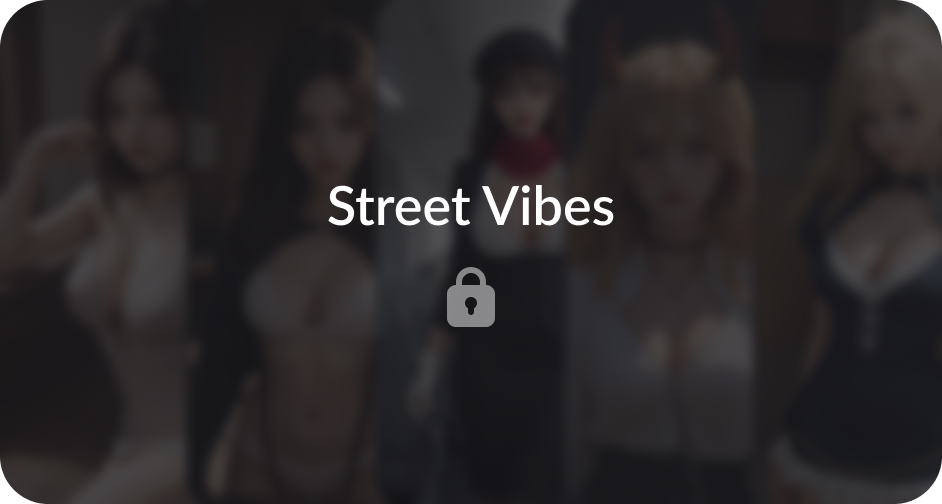
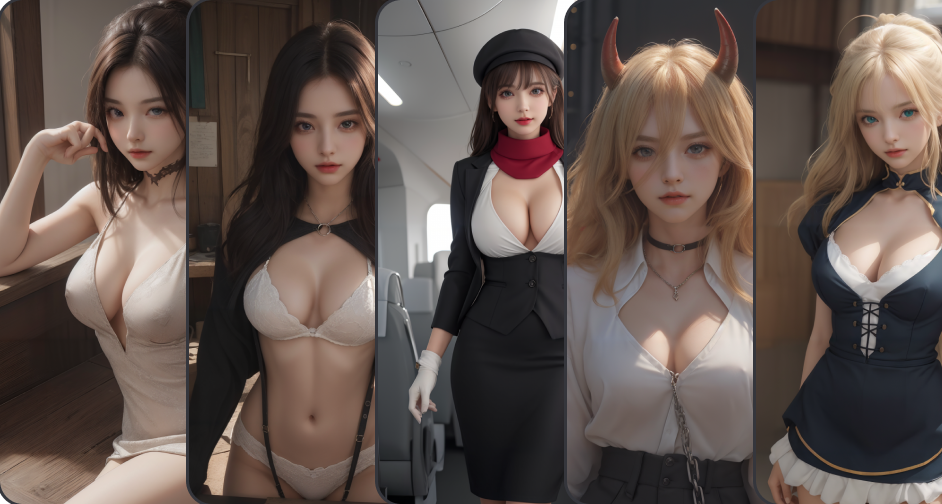
feat: update

diff --git a/lib/pages/theme.dart b/lib/pages/theme.dart
@@ -1,5 +1,8 @@
+import 'dart:ui';
+
 import 'package:flutter/material.dart';
 import '/widgets/common.dart';
+import '/controller/user.dart';
 
 class ThemePage extends StatefulWidget {
   const ThemePage({super.key});
@@ -8,15 +11,143 @@ class ThemePage extends StatefulWidget {
 }
 
 class _ThemePageState extends State<ThemePage> with SingleTickerProviderStateMixin {
+  final ScrollController _scrollController = ScrollController();
+
   @override
   void initState() {
     super.initState();
+    // 初始化后滚动到底部
+    WidgetsBinding.instance.addPostFrameCallback((_) {
+      if (_scrollController.hasClients) {
+        _scrollController.jumpTo(_scrollController.position.maxScrollExtent);
+      }
+    });
+  }
+
+  @override
+  void dispose() {
+    _scrollController.dispose();
+    super.dispose();
   }
 
 	@override
 	Widget build(BuildContext context) {
     return CommonPage(
-      child: Container()
+      child: CustomScrollView(
+        controller: _scrollController,
+        slivers: [
+          SliverToBoxAdapter(
+            child: Container(
+              padding: EdgeInsets.only(bottom: 72),
+              child: Row(
+                crossAxisAlignment: CrossAxisAlignment.end,
+                children: [
+                  Container(
+                    width: 24,
+                    height: 1104,
+                    padding: EdgeInsets.only(bottom: 16),
+                    child: Stack(
+                      alignment: Alignment.bottomCenter,
+                      children: [
+                        Container(
+                          width: 8,
+                          height: 1104,
+                          color: Color(0xFF232429),
+                        ),
+                        Positioned(
+                          bottom: UserController.level.value * 18,
+                          child: Container(
+                            width: 12,
+                            height: 12,
+                            padding: EdgeInsets.all(2),
+                            decoration: BoxDecoration(
+                              color: Colors.white,
+                              borderRadius: BorderRadius.circular(12)
+                            ),
+                            child: Container(
+                              decoration: BoxDecoration(
+                                color: Color(0xFFFF006C),
+                                borderRadius: BorderRadius.circular(12)
+                              ),
+                            ),
+                          )
+                        ),
+                        __levelDot(level: 0),
+                        __levelDot(level: 20),
+                        __levelDot(level: 40),
+                        __levelDot(level: 60),
+                        __levelDot(level: 80),
+                        __levelDot(level: 100),
+                      ],
+                    ),
+                  ),
+                  SizedBox(width: 20),
+                  Expanded(child: Column(
+                    children: [
+                      __themeBox('Ethereal Dreams', 'ED', 100),
+                      __themeBox('Battle Angels', 'BA', 80),
+                      __themeBox('Street Vibes', 'SV', 60),
+                      __themeBox('Royal Queens', 'RQ', 40),
+                      __themeBox('Cyber Divas', 'CD', 20),
+                      __themeBox('Mystic Muses', 'MM', 0),
+                    ],
+                  )),
+                  SizedBox(width: 10)
+                ]
+              ),
+            )
+          )
+        ]
+      )
     );
 	}
+
+  Widget __levelDot({required final int level, final reached}) {
+    return Positioned(
+      bottom: level / 20 * 188,
+      child: Container(
+        width: 24,
+        height: 24,
+        alignment: Alignment.center,
+        decoration: BoxDecoration(
+          color: Color(0xFFFF006C),
+          borderRadius: BorderRadius.circular(24),
+        ),
+        child: Text('lv.$level', style: TextStyle(color: Colors.white, fontSize: 10, fontWeight: FontWeight.w600, overflow: TextOverflow.visible), softWrap: false),
+      )
+    );
+  }
+  Widget __themeBox(title, image, int limit) {
+    bool locked = UserController.level.value < limit;
+    return Container(
+      height: 168,
+      margin: EdgeInsets.only(bottom: 16),
+      clipBehavior: Clip.antiAlias,
+      decoration: BoxDecoration(
+        color: Colors.white,
+        borderRadius: BorderRadius.circular(16),
+        image: DecorationImage(image: AssetImage('assets/images/themes/$image${locked ? '_locked' : ''}.png'), fit: BoxFit.cover)
+      ),
+      child: locked ? Container() : Column(
+        mainAxisAlignment: MainAxisAlignment.end,
+        children: [
+          ClipRRect(
+            child: BackdropFilter(
+              filter: ImageFilter.blur(
+                sigmaX: 2, // 横向模糊强度
+                sigmaY: 2, // 纵向模糊强度
+              ),
+              child: Container(
+                width: MediaQuery.of(context).size.width,
+                height: 38,
+                alignment: Alignment.center,
+                color: Color.fromRGBO(22, 22, 26, 0.72),
+                child: Text('$title', style: TextStyle(color: Colors.white, fontSize: 18, fontWeight: FontWeight.w600)),
+              ),
+            ),
+          )
+        ],
+      )
+    );
+  }
 }

diff --git a/lib/widgets/common.dart b/lib/widgets/common.dart
@@ -29,14 +29,14 @@ class CommonPageState extends State<CommonPage> {
             __shadowRight(),
 
             Container(
-              padding: EdgeInsets.fromLTRB(16, 32, 16, 32),
+              padding: EdgeInsets.fromLTRB(16, 32, 16, 0),
               child: Column(
                 children: [
                   __header(),
                   SizedBox(height: 20),
                   SizedBox(
                     width: MediaQuery.of(context).size.width,
-                    height: MediaQuery.of(context).size.height - MediaQuery.of(context).padding.top - MediaQuery.of(context).padding.bottom - 186,
+                    height: MediaQuery.of(context).size.height - MediaQuery.of(context).padding.top - MediaQuery.of(context).padding.bottom - 168,
                     child: widget.child,
                   )
                 ],
@@ -52,9 +52,28 @@ class CommonPageState extends State<CommonPage> {
   Widget __bgImage() {
     return Positioned(
       top: 0,
-      child: SizedBox(
-        height: MediaQuery.of(context).size.height - MediaQuery.of(context).padding.bottom - 60 - MediaQuery.of(context).padding.top,
-        child: Opacity(opacity: 0.8, child: Image.asset('assets/images/humans/MM_Astra.png', fit: BoxFit.cover)),
+      child: Stack(
+        children: [
+          SizedBox(
+            width: MediaQuery.of(context).size.width,
+            height: MediaQuery.of(context).size.height - MediaQuery.of(context).padding.bottom - 60 - MediaQuery.of(context).padding.top,
+            child: Opacity(opacity: 0.9, child: Image.asset('assets/images/humans/MM_Astra.png', fit: BoxFit.cover))
+          ),
+          Positioned(
+            child: ClipRRect(
+              child: BackdropFilter(
+                filter: ImageFilter.blur(
+                  sigmaX: 10, // 横向模糊强度
+                  sigmaY: 10, // 纵向模糊强度
+                ),
+                child: SizedBox(
+                  width: MediaQuery.of(context).size.width,
+                  height: MediaQuery.of(context).size.height - MediaQuery.of(context).padding.bottom - 60 - MediaQuery.of(context).padding.top,
+                ),
+              ),
+            )
+          )
+        ],
       )
     );
   }

diff --git a/lib/controller/user.dart b/lib/controller/user.dart
@@ -1,0 +1,56 @@
+import 'package:intl/intl.dart';
+import '/common/share_pref.dart';
+import 'package:get/get.dart';
+
+var formater = DateFormat('yyyy-MM-dd');
+
+class UserController extends GetxController {
+  static final avator = 'assets/images/avator/1.png'.obs;
+  static final level = RxInt(1);
+  static final diamond = RxInt(0);
+  static final diamondTotal = RxInt(0);
+  static final freeSpined = RxBool(false); // 免费抽奖已使用
+  static final freeSpinTime = RxString(''); // 上次免费抽奖时间
+
+  // 初始化
+  static init() {
+    validAvator();
+    level.value = SharePref.getInt('level') ?? 1;
+    diamond.value = SharePref.getInt('diamond') ?? 0;
+    diamondTotal.value = SharePref.getInt('diamondTotal') ?? 0;
+    freeSpinTime.value = SharePref.getString('freeSpinTime') ?? '';
+    if (freeSpinTime.value != '') {
+      freeSpined.value = freeSpinTime.value == formater.format(DateTime.now());
+    }
+  }
+
+  // 验证头像是否存在
+  static validAvator() {
+    String path = SharePref.getString('avator') ?? '';
+    if (path == '') return;
+    avator.value = path;
+    
+  }
+  // 设置头像
+  static setAvator(path) {
+    avator.value = path;
+    SharePref.setString('avator', path);
+  }
+
+  // 增加钻石
+  static increaseDiamond(int value) {
+    level.value += (diamond.value + value) ~/ 200;
+    diamond.value = (diamond.value + value) % 200;
+    diamondTotal.value += value;
+    SharePref.setInt('level', level.value);
+    SharePref.setInt('diamond', diamond.value);
+    SharePref.setInt('diamondTotal', diamondTotal.value);
+  }
+  // 免费抽奖
+  static onFreeSpin() {
+    DateTime now = DateTime.now();
+    String today = formater.format(now);
+    freeSpined.value = true;
+    SharePref.setString('freeSpinTime', today);
+  }
+}

diff --git a/lib/pages/home.dart b/lib/pages/home.dart
@@ -71,7 +71,7 @@ class HomePageState extends State<HomePage> {
 
   Widget __footerBtn() {
     return Positioned(
-      bottom: 68,
+      bottom: 100,
       child: ElevatedButton(
         style: ElevatedButton.styleFrom(
           padding: EdgeInsets.symmetric(horizontal: 64, vertical: 4),
